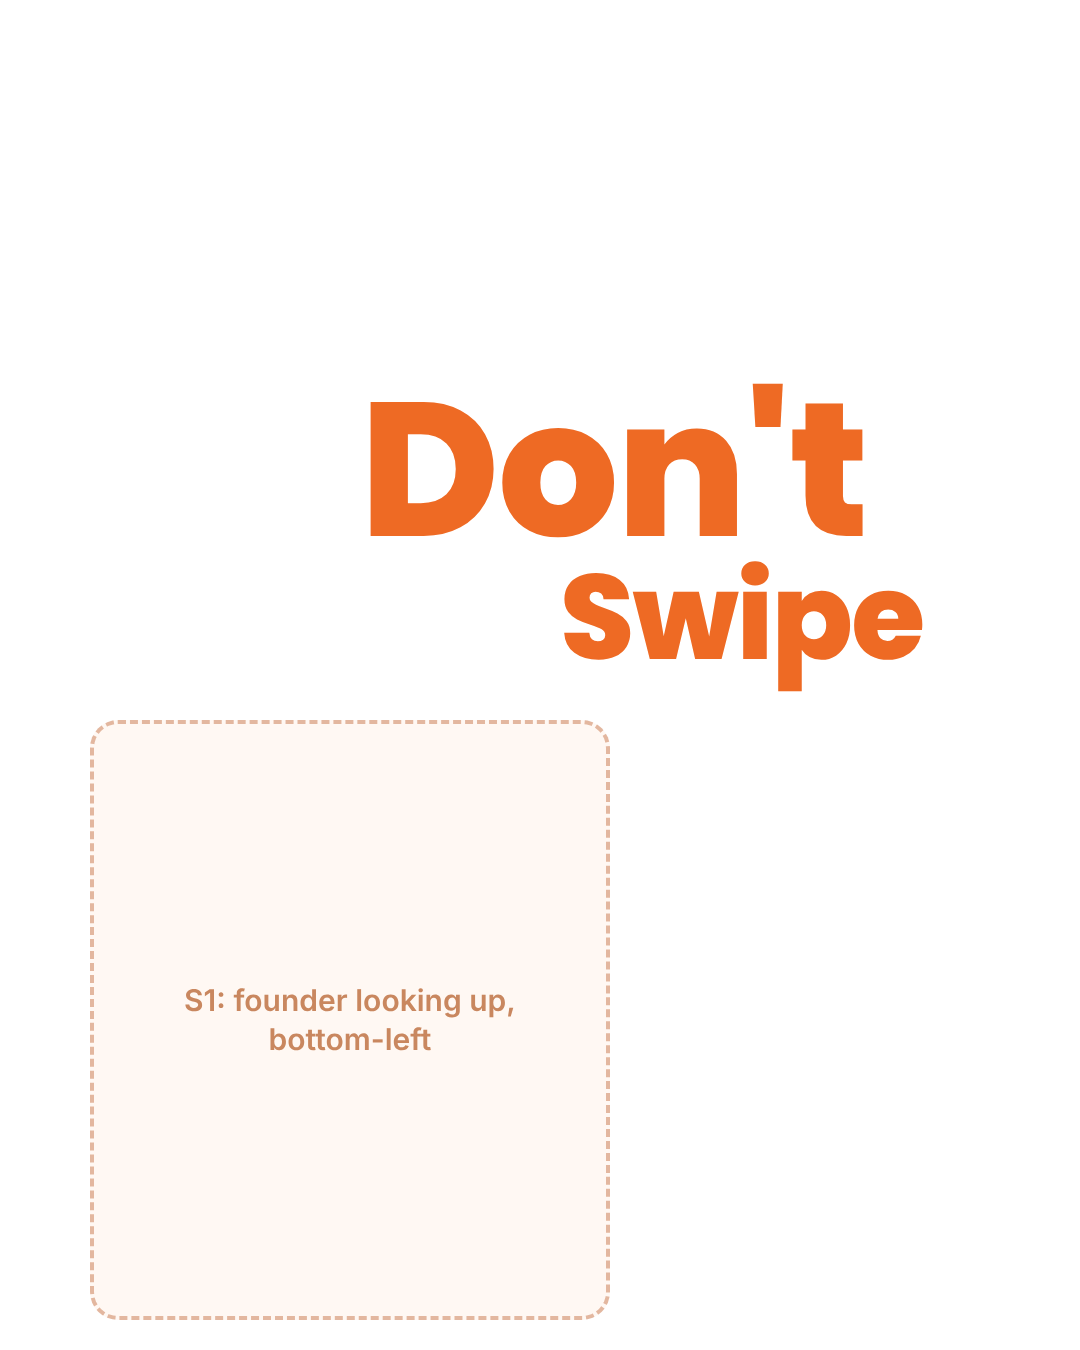
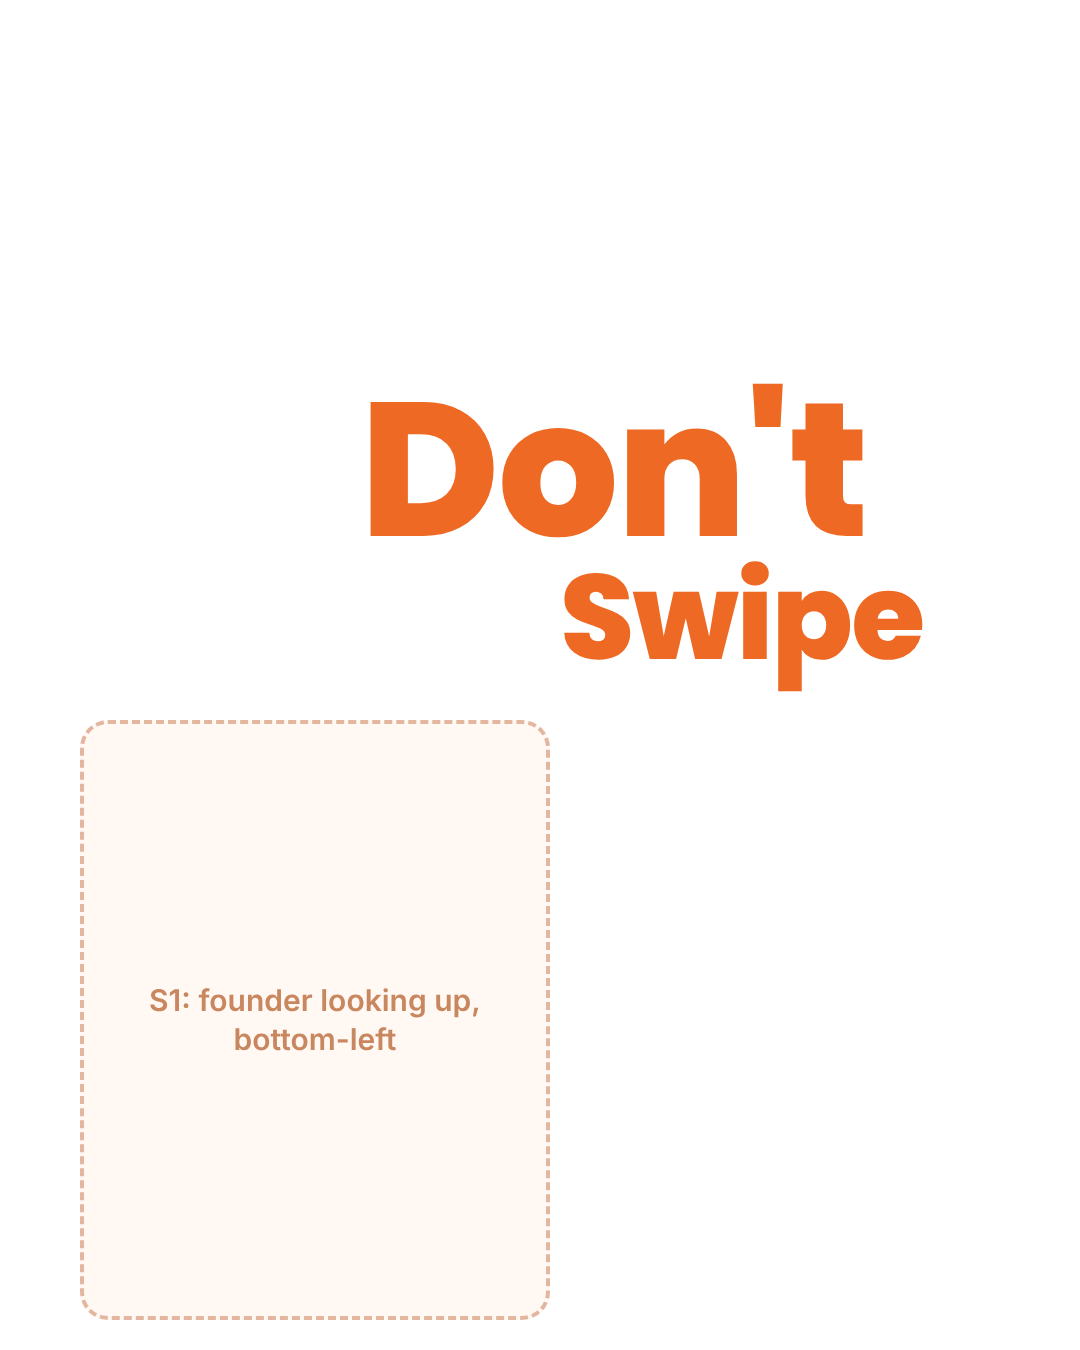
Buildify carousel v2: narrow S1 art slot, add layout preview
Claude-Session: https://claude.ai/code/session_014pWm78LZtqkTbJwqBVTHRY

diff --git a/posts/buildify-dont-swipe/slides-v2.html b/posts/buildify-dont-swipe/slides-v2.html
@@ -28,7 +28,7 @@
 <section class="s" id="s1">
   <div class="t b" style="left:360px; top:380px; font-size:190px;">Don't</div>
   <div class="t b" style="left:560px; top:560px; font-size:120px;">Swipe</div>
-  <div class="art" style="left:90px; bottom:30px; width:520px; height:600px;" data-art="s1" data-label="S1: founder looking up, bottom-left"></div>
+  <div class="art" style="left:80px; bottom:30px; width:470px; height:600px;" data-art="s1" data-label="S1: founder looking up, bottom-left"></div>
 </section>
 
 <section class="s" id="s2">
